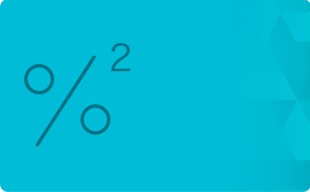
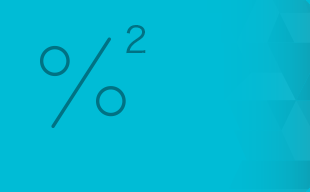
BAMS-89 页面：活卡促刷展示

diff --git a/dev/sass/views/activity/create-activity.scss b/dev/sass/views/activity/create-activity.scss
@@ -1,40 +1,74 @@
 .create-activity{
 	.activity-list{
 		clear:both;
-		height:600px;
+		height:620px;
 		.show-activity{
 			position:relative;
 			display: inline-block;
 			float: left;
-			margin:auto;
+			text-align:center;
 			width: 33.33%;
+			height:192px;
 			margin-bottom: 20px;
-			img{
-				width:300px;
-			}
-			.activity-name{
-				cursor: pointer;
-				position: absolute;
-				top:70px;
-				left:160px;
-				color: #fff;
-				width:120px;
-				text-align: center;
-				a{
-					color:#fff;
+			.bg-show{
+				display:inline-block;
+				border-radius: 3px;
+				width: 310px;
+				height:192px;
+				background-size: 310px 192px;
+				background-repeat:no-repeat;
+				.activity-name{
+					cursor: pointer;
+					position: relative;
+					top:61px;
+					left:160px;
+					color: #fff;
+					width:140px;
+					text-align: center;
+					a{
+						color:#fff;
+					}
 				}
+				.activity-intru{
+					position:absolute;
+					bottom:0;
+					width:300px;
+					flex-direction:row;
+					padding: 5px;
+					border-bottom-left-radius: 3px;
+					border-bottom-right-radius: 3px;
+					background-color:rgba(225,225,225,.5)
+				}
+
+			}	
+			.manjian{
+				background-image:url("../img/manjian.png");
 			}
-			.activity-intru{
-				position:absolute;
-				bottom:0;
-				left:0;
-				width:290px;
-				flex-direction:row;
-				padding: 5px;
-				border-bottom-left-radius: 3px;
-				border-bottom-right-radius: 3px;
-				background-color:rgba(225,225,225,.5)
+			.zhekou{
+				background-image:url("../img/zhekou.png");
 			}
+			.suijilijian{
+				background-image:url("../img/suijilijian.png");
+			}
+			.suijizhekou{
+				background-image:url("../img/suijizhekou.png");
+			}
+			.piaowu{
+				background-image:url("../img/piaowu.png");
+			}
+			.lianhuanzhekou{
+				background-image:url("../img/lianhuanzhekou.png");
+			}
+			.jihaojizhe{
+				background-image:url("../img/jihaojizhe.png");
+			}
+			.zhoujijizhe{
+				background-image:url("../img/zhoujijizhe.png");
+			}
+			.meimanjian{
+				background-image:url("../img/meimanjian.png");
+			}
+			
 		}
 	}
 }

diff --git a/dev/js/views/activity/create-activity.vue b/dev/js/views/activity/create-activity.vue
@@ -2,8 +2,7 @@
 	<div class="create-activity">
 		<div class="activity-list">
 			<div v-for="value in activityName" class="show-activity">
-				<div><!-- <img :src="value.image+'.png'"> -->
-					<img src="../../../img/manjian.png">
+				<div class="bg-show" :class="value.type">
 					<div class="activity-name">
 						<h4><a>{{value.name}}</a></h4>
 					</div>
@@ -22,47 +21,47 @@
 					'name':'满减（含立减）',
 					'text':'特定持卡人享受消费满减/立减优惠',
 					'link':'activity',
-					'image':'manjian'
+					'type':'manjian'
 				},{
 					'name':'折扣',
 					'text':'特定持卡人享受消费打折优惠。',
 					'link':'activity',
-					'image':'zhekou'
+					'type':'zhekou'
 				},{
 					'name':'随机立减',
 					'text':'特定持卡人享有每单消费随机立减的优惠资格',
 					'link':'activity',
-					'image':'suijilijian'
+					'type':'suijilijian'
 				},{
 					'name':'随机折扣',
 					'text':'特定持卡人享有每单消费随机折扣的优惠资格',
 					'link':'activity',
-					'image':'suijizhekou'
+					'type':'suijizhekou'
 				},{
 					'name':'票务类活动',
 					'text':'特定持卡人享有以优惠价购票的资格',
 					'link':'activity',
-					'image':'piaowu'
+					'type':'piaowu'
 				},{
 					'name':'连环折扣',
 					'text':'特定持卡人享有多次消费连环折扣的优惠资格',
 					'link':'activity',
-					'image':'lianhuazhekou'
+					'type':'lianhuanzhekou'
 				},{
 					'name':'几号几折',
 					'text':'特定持卡人享有根据消费日期尾数打折的优惠资格。',
 					'link':'activity',
-					'image':'jihaojizhe'
+					'type':'jihaojizhe'
 				},{
 					'name':'周几几折',
 					'text':'特定持卡人享有根据消费的周尾数打的优惠资格。',
 					'link':'activity',
-					'image':'zhoujijizhe'
+					'type':'zhoujijizhe'
 				},{
 					'name':'每满减',
 					'text':'特定持卡人享受消费每满减优惠',
 					'link':'activity',
-					'image':'meimanjian'
+					'type':'meimanjian'
 				}],
 			}
 		},
